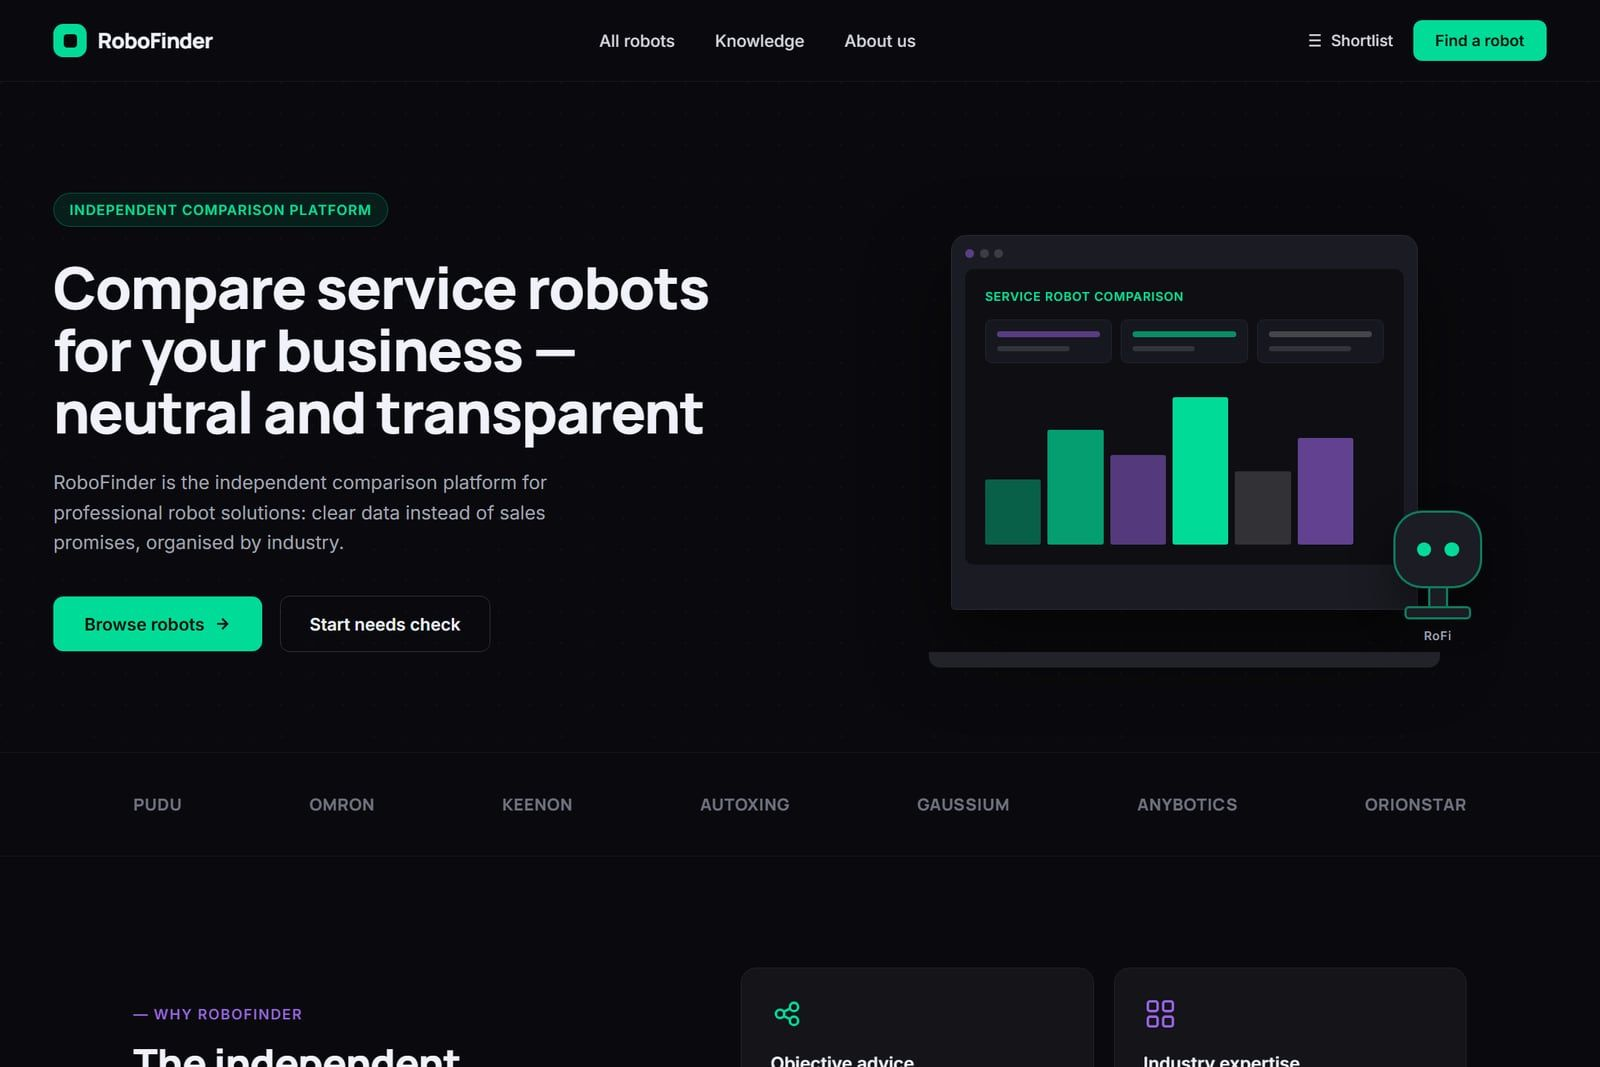
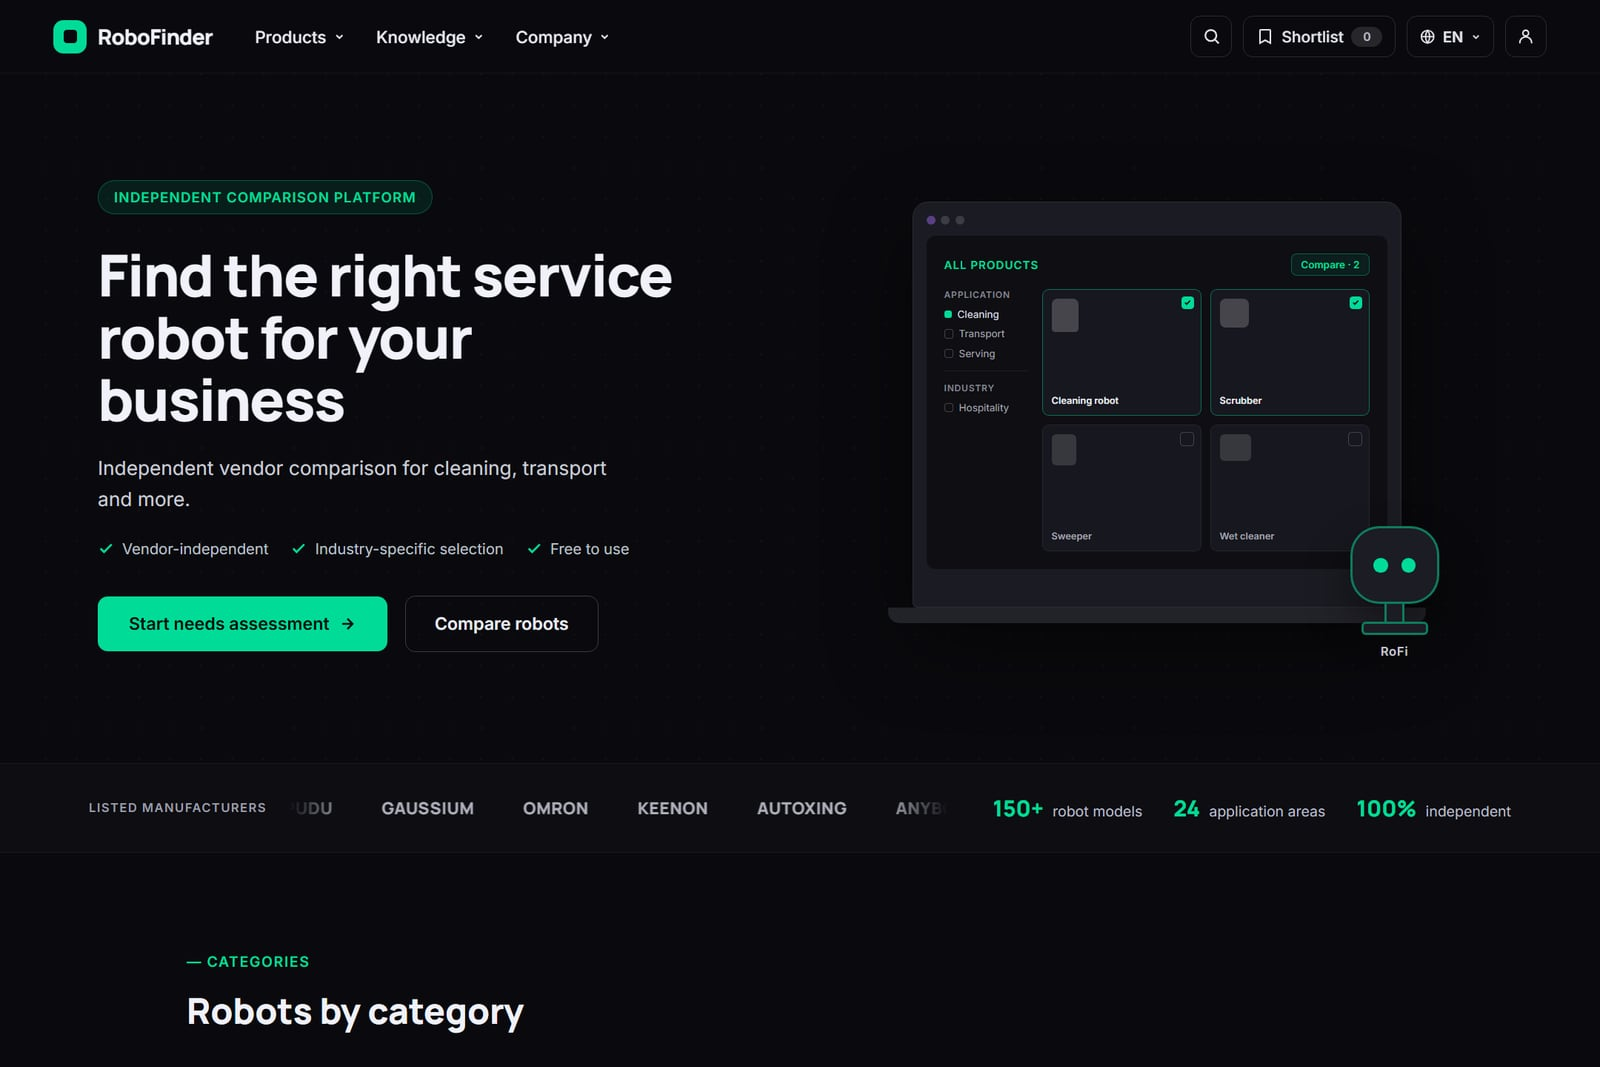
RoboFinder card: pictures from the complete prototype

diff --git a/src/content/projects/en/robofinder.md b/src/content/projects/en/robofinder.md
@@ -7,7 +7,7 @@ builtWith: "Prototype built with Claude"
 tags: ["Human-Centred AI", "Interaction design", "Prototyping"]
 order: 2.5
 cover: "/images/robofinder/cover.jpg"
-coverAlt: "The RoboFinder homepage: the headline on the left and a service robot comparison dashboard with the RoFi mascot on the right."
+coverAlt: "The RoboFinder homepage: Find the right service robot for your business, beside a product comparison preview with the RoFi mascot."
 # On the Design projects page: short name, its own picture, and the card opens the separate project page.
 listTitle: "RoboFinder"
 listCover: "/images/robofinder/card.jpg"
@@ -19,12 +19,12 @@ links:
   - label: "Clickable prototype"
     url: "https://mahyamirzaee.github.io/robofinder/prototype.html"
 gallery:
-  - src: "/images/robofinder/needs-check.jpg"
-    alt: "The needs check section: Which robot fits your business? Step 2 of 4 asks which industry you are in."
-    caption: "Needs check: a few guided questions lead to matching robot models instead of a long list."
-  - src: "/images/robofinder/problem.jpg"
-    alt: "The problem section with four cards, and the smart matching block with two paths: browse robots or use the needs check."
-    caption: "Problem framing and smart matching: two paths, browsing or a guided check, lead to one result."
+  - src: "/images/robofinder/wizard.jpg"
+    alt: "Two routes to a shortlist: browse the catalogue, or the guided needs check at step 2 of 4."
+    caption: "Two routes to one shortlist: users browse the catalogue themselves, or a guided needs check recommends matching robots."
+  - src: "/images/robofinder/insights.jpg"
+    alt: "RoboFinder Insights: content categories above filters for content type, topic, industry and application."
+    caption: "Insights: technical knowledge structured into categories and filters, so decision-makers can find what applies to them."
 inPortfolio: false
 ---
 
